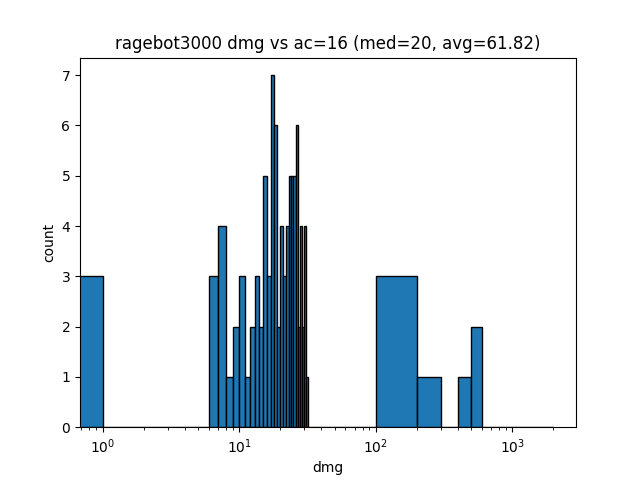
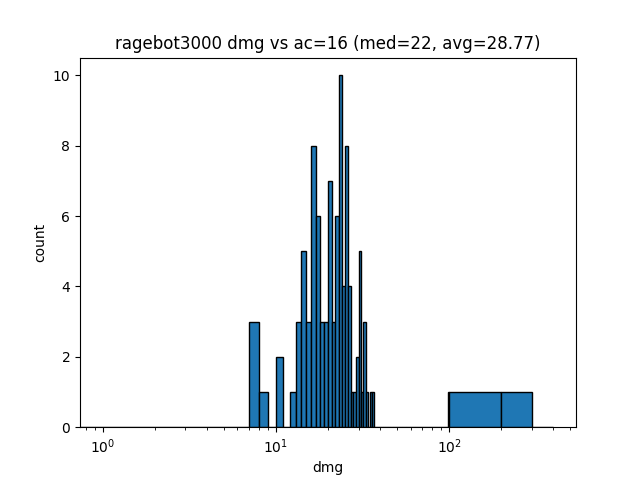
update

diff --git a/players/salamandrew.py b/players/salamandrew.py
@@ -2,7 +2,15 @@ import dnd
 import numpy
 import matplotlib.pyplot
 
-def eldritch_blast_attack(hit_dc, enemy_ac, indent, verbose=True):
+def hex_attack(indent, verbose=True, crit=False):
+    # Hex key stats
+    die_rank = 6
+    num_die = 1
+    dmg_mod = 0
+    dnd.log(f"{indent}APPLYING HEX", verbose)
+    return dnd.dmg_roll(die_rank, num_die, dmg_mod, indent, verbose=verbose, crit=crit)
+
+def eldritch_blast_attack(hit_dc, enemy_ac, indent, verbose=True, hex=False):
     # Eldritch Blast key stats
     die_rank = 10
     num_die = 1
@@ -10,10 +18,11 @@ def eldritch_blast_attack(hit_dc, enemy_ac, indent, verbose=True):
 
     hit_result = dnd.hit_roll(hit_dc, enemy_ac, indent, verbose=verbose)
     if hit_result["hit"]:
-        return dnd.dmg_roll(die_rank, num_die, dmg_mod, indent, verbose=verbose, crit=hit_result["crit"])
+        return dnd.dmg_roll(die_rank, num_die, dmg_mod, indent, verbose=verbose, crit=hit_result["crit"]) + \
+            (hex_attack(indent + dnd.INDENT, verbose=verbose, crit=hit_result["crit"]) if hex else 0)
     return 0
 
-def tentacle_attack(hit_dc, enemy_ac, indent, verbose=True):
+def tentacle_attack(hit_dc, enemy_ac, indent, verbose=True, hex=False):
     # Tentacle key stats
     die_rank = 8
     num_die = 2
@@ -21,14 +30,15 @@ def tentacle_attack(hit_dc, enemy_ac, indent, verbose=True):
 
     hit_result = dnd.hit_roll(hit_dc, enemy_ac, indent, verbose=verbose)
     if hit_result["hit"]:
-        return dnd.dmg_roll(die_rank, num_die, dmg_mod, indent, verbose=verbose, crit=hit_result["crit"])
+       return dnd.dmg_roll(die_rank, num_die, dmg_mod, indent, verbose=verbose, crit=hit_result["crit"]) + \
+            (hex_attack(indent + dnd.INDENT, verbose=verbose, crit=hit_result["crit"]) if hex else 0)
     return 0
 
-def salamandrew_attack(num_eb, hit_dc, enemy_ac, verbose=True):
+def salamandrew_attack(num_eb, hit_dc, enemy_ac, verbose=True, hex=False):
     tot_dmg = 0
     for _ in range(num_eb):
-        tot_dmg += eldritch_blast_attack(hit_dc, enemy_ac, '', verbose=verbose)
-    tot_dmg += tentacle_attack(hit_dc, enemy_ac, '', verbose=verbose)
+        tot_dmg += eldritch_blast_attack(hit_dc, enemy_ac, '', verbose=verbose, hex=hex)
+    tot_dmg += tentacle_attack(hit_dc, enemy_ac, '', verbose=verbose, hex=hex)
     dnd.log(f"TOTAL DMG: {tot_dmg}", verbose)
     return tot_dmg
 
@@ -36,12 +46,13 @@ def run_simulations():
     enemy_acs = range(15, 22)
     num_eb = 2
     hit_dc = 9
-    trials = 100000
+    trials = 1000
     verbose = False
+    hex = True
     for enemy_ac in enemy_acs:
         data = []
         for _ in range(trials):
-            data.append(salamandrew_attack(num_eb, hit_dc, enemy_ac, verbose=verbose))
+            data.append(salamandrew_attack(num_eb, hit_dc, enemy_ac, verbose=verbose, hex=hex))
             dnd.log("************", verbose)
 
         data = sorted(data)

diff --git a/players/bixby.py b/players/bixby.py
@@ -2,6 +2,13 @@ import dnd
 import numpy
 import matplotlib.pyplot
 
+def divine_smite(indent, verbose=True, crit=False):
+    # Divine smite stats (assuming lvl 1 spell slot)
+    die_rank = 8
+    num_die = 2
+    dmg_mod = 0
+    return dnd.dmg_roll(die_rank, num_die, dmg_mod, indent, verbose=verbose, crit=crit)
+
 def flail_attack(hit_dc, enemy_ac, indent, verbose=True):
     # Flail key stats
     die_rank = 8
@@ -10,7 +17,7 @@ def flail_attack(hit_dc, enemy_ac, indent, verbose=True):
 
     hit_result = dnd.hit_roll(hit_dc, enemy_ac, indent, verbose=verbose)
     if hit_result["hit"]:
-        return dnd.dmg_roll(die_rank, num_die, dmg_mod, indent, verbose=verbose, crit=hit_result["crit"])
+        return divine_smite(indent, verbose=verbose, crit=hit_result["crit"]) + dnd.dmg_roll(die_rank, num_die, dmg_mod, indent, verbose=verbose, crit=hit_result["crit"])
     return 0
 
 def bixby_attack(attacks, hit_dc, enemy_ac, verbose=True):
@@ -24,7 +31,7 @@ def run_simulations():
     enemy_acs = range(15, 22)
     attacks = 2
     hit_dc = 8
-    trials = 100000
+    trials = 1000
     verbose = False
     for enemy_ac in enemy_acs:
         data = []
